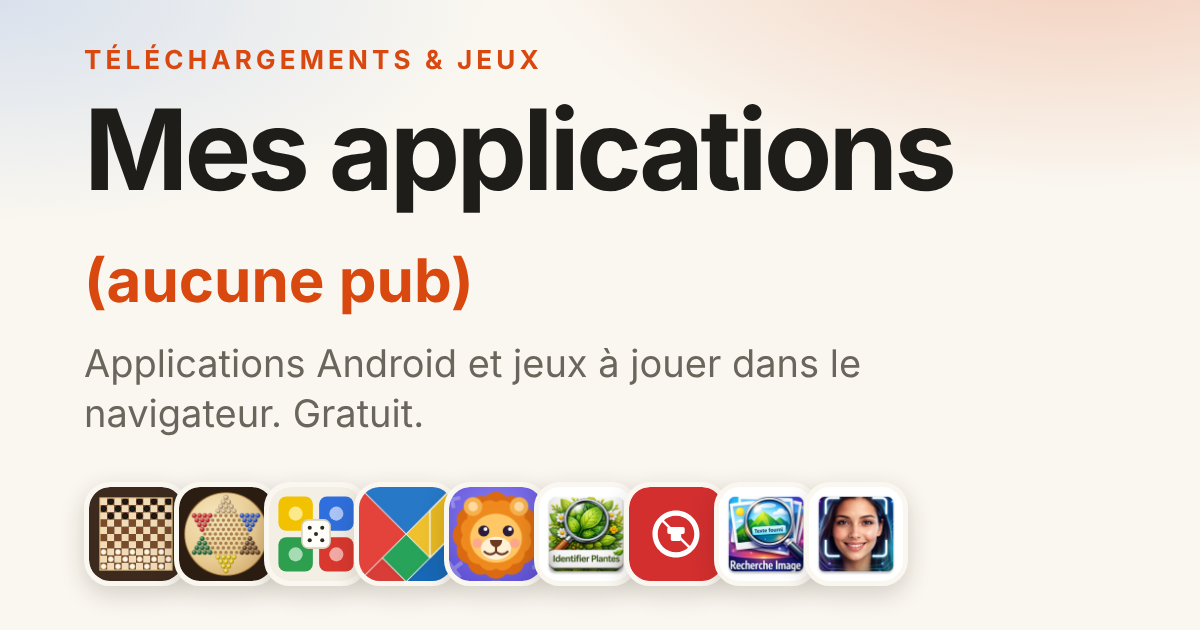
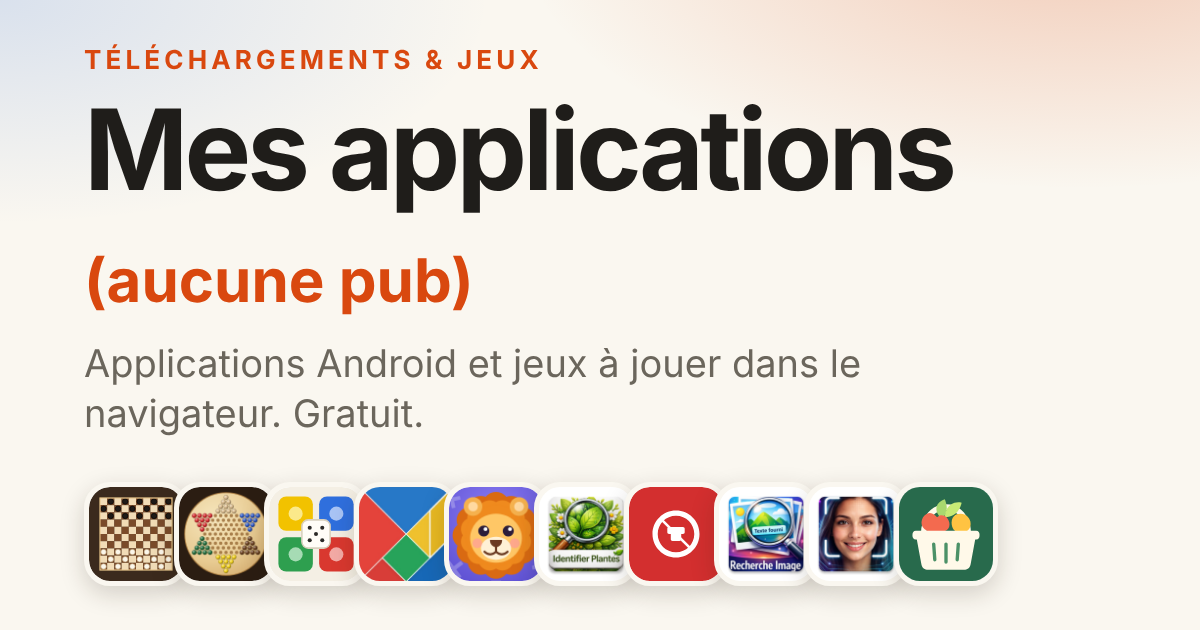
Ajout de ListeCourses Maison (Mes-courses.apk)
Claude-Session: https://claude.ai/code/session_012hP47bfDkwNMDSv529RroJ

Changed region(s): [[0.74, 0.754, 0.8325, 0.9651]]

diff --git a/liste-courses/index.html b/liste-courses/index.html
@@ -1,0 +1,131 @@
+<!DOCTYPE html>
+<html lang="fr">
+<head>
+  <meta charset="UTF-8">
+  <meta name="viewport" content="width=device-width, initial-scale=1, viewport-fit=cover">
+  <meta name="color-scheme" content="light dark">
+  <meta name="theme-color" content="#faf7f0" media="(prefers-color-scheme: light)">
+  <meta name="theme-color" content="#14130f" media="(prefers-color-scheme: dark)">
+  <title>ListeCourses Maison — télécharger l'APK gratuit pour Android</title>
+  <meta name="description" content="La liste de courses de la maison, partagée entre les téléphones. Téléchargez ListeCourses Maison gratuitement pour Android (APK), sans publicité.">
+  <link rel="canonical" href="https://bentarcha.github.io/benappli/liste-courses/">
+  <link rel="icon" href="../assets/icons/parchis.svg" type="image/svg+xml">
+  <meta property="og:type" content="website">
+  <meta property="og:site_name" content="Mes applications (aucune pub)">
+  <meta property="og:locale" content="fr_FR">
+  <meta property="og:title" content="ListeCourses Maison — télécharger l'APK gratuit pour Android">
+  <meta property="og:description" content="La liste de courses de la maison, partagée entre les téléphones. Téléchargez ListeCourses Maison gratuitement pour Android (APK), sans publicité.">
+  <meta property="og:url" content="https://bentarcha.github.io/benappli/liste-courses/">
+  <meta property="og:image" content="https://bentarcha.github.io/benappli/assets/og-image.png">
+  <meta property="og:image:width" content="1200">
+  <meta property="og:image:height" content="630">
+  <meta name="twitter:card" content="summary_large_image">
+  <meta name="twitter:image" content="https://bentarcha.github.io/benappli/assets/og-image.png">
+  <script type="application/ld+json">{"@context":"https://schema.org","@type":"MobileApplication","name":"ListeCourses Maison","description":"La liste de courses de la maison, partagée entre les téléphones. Téléchargez ListeCourses Maison gratuitement pour Android (APK), sans publicité.","url":"https://bentarcha.github.io/benappli/liste-courses/","image":"https://bentarcha.github.io/benappli/assets/icons/liste-courses.svg","inLanguage":"fr","applicationCategory":"UtilitiesApplication","operatingSystem":"Android 7.0+","offers":{"@type":"Offer","price":"0","priceCurrency":"EUR"},"dateModified":"2026-10-24","downloadUrl":"https://github.com/bentarcha/benappli/releases/latest/download/Mes-courses.apk","softwareVersion":"1.0"}</script>
+  <link rel="stylesheet" href="../assets/style.css">
+</head>
+<body>
+  <a class="skip" href="#contenu">Aller au contenu</a>
+
+  <header class="hero compact">
+    <div class="wrap">
+      <p class="eyebrow"><a class="back" href="../">← Toutes les applications</a></p>
+      <h1>ListeCourses Maison</h1>
+      <p class="lead">La liste de courses de la maison, partagée entre les téléphones.</p>
+    </div>
+  </header>
+
+  <main class="wrap page" id="contenu">
+    <div class="app-top">
+      <img src="../assets/icons/liste-courses.svg" alt="Icône de ListeCourses Maison" width="96" height="96">
+      <div class="dlg-actions">
+        <a class="btn primary" href="https://github.com/bentarcha/benappli/releases/latest/download/Mes-courses.apk" data-track="telechargement/liste-courses" data-title="Téléchargement : ListeCourses Maison"><svg viewBox="0 0 24 24" width="18" height="18" aria-hidden="true"><path d="M12 3v12m0 0l-5-5m5 5l5-5M5 20h14" fill="none" stroke="currentColor" stroke-width="2.2" stroke-linecap="round" stroke-linejoin="round"/></svg>Télécharger</a>
+        <a class="btn" href="../#liste-courses">Voir dans la liste</a>
+      </div>
+    </div>
+
+    <section aria-labelledby="presentation">
+      <h2 id="presentation">L'application</h2>
+      <p>ListeCourses Maison est un catalogue de produits courants, rangés par rayon : fruits et légumes, viandes et poissons, produits laitiers, pains et brioches, épicerie, surgelés, boissons, hygiène et entretien. Cochez un produit pour l'ajouter à la liste de courses, décochez-le une fois dans le panier. Vous pouvez aussi ajouter vos propres produits. Si vous le souhaitez, créez une « maison » et partagez son code : la liste est alors synchronisée entre les téléphones de la famille.</p>
+    </section>
+
+    <section aria-labelledby="contenu-app">
+      <h2 id="contenu-app">Ce que vous y trouverez</h2>
+      <ul class="feats">
+        <li>Un catalogue de produits courants classés par rayon</li>
+        <li>Ajout de vos propres produits, avec leur catégorie</li>
+        <li>Liste de courses : cochez pour ajouter, décochez ou videz en un geste</li>
+        <li>Partage de la liste à la famille avec un code de maison, facultatif</li>
+        <li>Fonctionne sans Internet : les changements sont envoyés au retour de la connexion</li>
+        <li>Trois thèmes de couleur au choix</li>
+      </ul>
+    </section>
+
+    <section aria-labelledby="infos">
+      <h2 id="infos">En détail</h2>
+      <dl class="specs">
+        <div><dt>Version</dt><dd>1.0</dd></div>
+        <div><dt>Taille</dt><dd>6,5 Mo</dd></div>
+        <div><dt>Android</dt><dd>à partir de 7.0</dd></div>
+        <div><dt>Mise à jour</dt><dd>24 octobre 2026</dd></div>
+      </dl>
+      <p class="muted">Catégorie : Outils · Gratuit · Sans publicité</p>
+    </section>
+
+    <section aria-labelledby="autorisations">
+      <h2 id="autorisations">Autorisations demandées</h2>
+      <ul class="perms">
+        <li>Voir l'état de la connexion réseau</li>
+        <li>Accéder à Internet</li>
+      </ul>
+    </section>
+
+    <section aria-labelledby="savoir">
+      <h2 id="savoir">Ce qu'il faut savoir</h2>
+      <ul class="plain">
+        <li>La liste est enregistrée sur le téléphone. Tant que vous ne créez pas ou ne rejoignez pas de « maison », rien ne la quitte.</li>
+        <li>Si vous utilisez une maison partagée, vos articles, le nom de la maison et son code sont enregistrés sur les serveurs Firebase de Google, pour être synchronisés entre les téléphones.</li>
+        <li>Le code de la maison permet de rejoindre la liste partagée : ne le donnez qu'à des personnes de confiance.</li>
+        <li>Aucune publicité, et aucun outil de mesure d'audience ni de rapport d'erreurs dans l'application.</li>
+      </ul>
+      <p><a href="../confidentialite.html#liste-courses">Voir la page Confidentialité</a></p>
+    </section>
+
+    <section aria-labelledby="installer">
+      <h2 id="installer">Comment installer ListeCourses Maison sur Android ?</h2>
+      <ol class="plain">
+        <li>Ouvrez cette page depuis votre téléphone et touchez <b>Télécharger</b>.</li>
+        <li>Ouvrez le fichier téléchargé (notification, ou dossier <i>Téléchargements</i>).</li>
+        <li>Si Android le demande, autorisez votre navigateur à <b>installer des applications inconnues</b>, puis touchez <b>Installer</b>.</li>
+      </ol>
+      <p class="muted">Ces applications ne passent pas par le Play Store : Android ou Play Protect peut afficher un avertissement. Si vous avez téléchargé le fichier depuis cette page, vous pouvez poursuivre l'installation.</p>
+    </section>
+
+    <section aria-labelledby="autres">
+      <h2 id="autres">Autres applications</h2>
+      <ul class="others">
+          <li><a href="../dama8/"><img src="../assets/icons/dama8.svg" alt="" width="28" height="28" loading="lazy">Dama</a></li>
+          <li><a href="../dames-chinoises/"><img src="../assets/icons/dames-chinoises.png" alt="" width="28" height="28" loading="lazy">Dames chinoises</a></li>
+          <li><a href="../parchis/"><img src="../assets/icons/parchis.svg" alt="" width="28" height="28" loading="lazy">Parchís</a></li>
+          <li><a href="../tangram/"><img src="../assets/icons/tangram.png" alt="" width="28" height="28" loading="lazy">Tangram</a></li>
+          <li><a href="../mathprim/"><img src="../assets/icons/mathprim.png" alt="" width="28" height="28" loading="lazy">MathPrim</a></li>
+          <li><a href="../plantes/"><img src="../assets/icons/plantes.webp" alt="" width="28" height="28" loading="lazy">Plantes</a></li>
+          <li><a href="../stop-spam/"><img src="../assets/icons/stop-spam.svg" alt="" width="28" height="28" loading="lazy">Stop Spam</a></li>
+          <li><a href="../recherche-image/"><img src="../assets/icons/recherche-image.webp" alt="" width="28" height="28" loading="lazy">Recherche Image</a></li>
+          <li><a href="../visages/"><img src="../assets/icons/visages.webp" alt="" width="28" height="28" loading="lazy">Visages</a></li>
+      </ul>
+    </section>
+  </main>
+
+  <footer class="foot">
+    <div class="wrap">
+      <p id="foot-contact"></p>
+      <p class="foot-links"><a href="../">Accueil</a> · <a href="../confidentialite.html">Confidentialité</a> · Applications proposées telles quelles, sans publicité.</p>
+    </div>
+  </footer>
+
+  <script src="../data/apps.js"></script>
+  <script src="../assets/common.js"></script>
+  <script src="../assets/page.js" data-app="liste-courses" data-name="ListeCourses Maison"></script>
+</body>
+</html>

diff --git a/data/apps.js b/data/apps.js
@@ -347,5 +347,46 @@ window.APPS = [
       "android.permission.READ_MEDIA_IMAGES"
     ],
     "updated": "2026-10-20"
+  },
+  {
+    "id": "liste-courses",
+    "name": "ListeCourses Maison",
+    "category": "outils",
+    "type": "android",
+    "tagline": "La liste de courses de la maison, partagée entre les téléphones.",
+    "description": "ListeCourses Maison est un catalogue de produits courants, rangés par rayon : fruits et légumes, viandes et poissons, produits laitiers, pains et brioches, épicerie, surgelés, boissons, hygiène et entretien. Cochez un produit pour l'ajouter à la liste de courses, décochez-le une fois dans le panier. Vous pouvez aussi ajouter vos propres produits. Si vous le souhaitez, créez une « maison » et partagez son code : la liste est alors synchronisée entre les téléphones de la famille.",
+    "features": [
+      "Un catalogue de produits courants classés par rayon",
+      "Ajout de vos propres produits, avec leur catégorie",
+      "Liste de courses : cochez pour ajouter, décochez ou videz en un geste",
+      "Partage de la liste à la famille avec un code de maison, facultatif",
+      "Fonctionne sans Internet : les changements sont envoyés au retour de la connexion",
+      "Trois thèmes de couleur au choix"
+    ],
+    "privacy": [
+      "La liste est enregistrée sur le téléphone. Tant que vous ne créez pas ou ne rejoignez pas de « maison », rien ne la quitte.",
+      "Si vous utilisez une maison partagée, vos articles, le nom de la maison et son code sont enregistrés sur les serveurs Firebase de Google, pour être synchronisés entre les téléphones.",
+      "Le code de la maison permet de rejoindre la liste partagée : ne le donnez qu'à des personnes de confiance.",
+      "Aucune publicité, et aucun outil de mesure d'audience ni de rapport d'erreurs dans l'application."
+    ],
+    "tags": [
+      "courses",
+      "liste",
+      "famille",
+      "supermarché",
+      "partage"
+    ],
+    "file": "Mes-courses.apk",
+    "icon": "assets/icons/liste-courses.svg",
+    "version": "1.0",
+    "versionCode": "1",
+    "package": "fr.maison.listecourses",
+    "size": 6806976,
+    "minSdk": 24,
+    "permissions": [
+      "android.permission.ACCESS_NETWORK_STATE",
+      "android.permission.INTERNET"
+    ],
+    "updated": "2026-10-24"
   }
 ];

diff --git a/index.html b/index.html
@@ -95,7 +95,7 @@
     <div class="wrap">
       <p id="foot-contact"></p>
       <!-- fiches:debut -->
-      <nav class="foot-fiches" aria-label="Toutes les applications">Applications : <a href="dama8/">Dama</a> · <a href="dames-chinoises/">Dames chinoises</a> · <a href="parchis/">Parchís</a> · <a href="tangram/">Tangram</a> · <a href="mathprim/">MathPrim</a> · <a href="plantes/">Plantes</a> · <a href="stop-spam/">Stop Spam</a> · <a href="recherche-image/">Recherche Image</a> · <a href="visages/">Visages</a></nav>
+      <nav class="foot-fiches" aria-label="Toutes les applications">Applications : <a href="dama8/">Dama</a> · <a href="dames-chinoises/">Dames chinoises</a> · <a href="parchis/">Parchís</a> · <a href="tangram/">Tangram</a> · <a href="mathprim/">MathPrim</a> · <a href="plantes/">Plantes</a> · <a href="stop-spam/">Stop Spam</a> · <a href="recherche-image/">Recherche Image</a> · <a href="visages/">Visages</a> · <a href="liste-courses/">ListeCourses Maison</a></nav>
       <!-- fiches:fin -->
       <p class="foot-links"><a href="confidentialite.html">Confidentialité</a> · Applications proposées telles quelles, sans publicité.</p>
     </div>

diff --git a/dama8/index.html b/dama8/index.html
@@ -109,6 +109,7 @@
           <li><a href="../stop-spam/"><img src="../assets/icons/stop-spam.svg" alt="" width="28" height="28" loading="lazy">Stop Spam</a></li>
           <li><a href="../recherche-image/"><img src="../assets/icons/recherche-image.webp" alt="" width="28" height="28" loading="lazy">Recherche Image</a></li>
           <li><a href="../visages/"><img src="../assets/icons/visages.webp" alt="" width="28" height="28" loading="lazy">Visages</a></li>
+          <li><a href="../liste-courses/"><img src="../assets/icons/liste-courses.svg" alt="" width="28" height="28" loading="lazy">ListeCourses Maison</a></li>
       </ul>
     </section>
   </main>

diff --git a/dames-chinoises/index.html b/dames-chinoises/index.html
@@ -107,6 +107,7 @@
           <li><a href="../stop-spam/"><img src="../assets/icons/stop-spam.svg" alt="" width="28" height="28" loading="lazy">Stop Spam</a></li>
           <li><a href="../recherche-image/"><img src="../assets/icons/recherche-image.webp" alt="" width="28" height="28" loading="lazy">Recherche Image</a></li>
           <li><a href="../visages/"><img src="../assets/icons/visages.webp" alt="" width="28" height="28" loading="lazy">Visages</a></li>
+          <li><a href="../liste-courses/"><img src="../assets/icons/liste-courses.svg" alt="" width="28" height="28" loading="lazy">ListeCourses Maison</a></li>
       </ul>
     </section>
   </main>

diff --git a/mathprim/index.html b/mathprim/index.html
@@ -111,6 +111,7 @@
           <li><a href="../stop-spam/"><img src="../assets/icons/stop-spam.svg" alt="" width="28" height="28" loading="lazy">Stop Spam</a></li>
           <li><a href="../recherche-image/"><img src="../assets/icons/recherche-image.webp" alt="" width="28" height="28" loading="lazy">Recherche Image</a></li>
           <li><a href="../visages/"><img src="../assets/icons/visages.webp" alt="" width="28" height="28" loading="lazy">Visages</a></li>
+          <li><a href="../liste-courses/"><img src="../assets/icons/liste-courses.svg" alt="" width="28" height="28" loading="lazy">ListeCourses Maison</a></li>
       </ul>
     </section>
   </main>

diff --git a/plantes/index.html b/plantes/index.html
@@ -111,6 +111,7 @@
           <li><a href="../stop-spam/"><img src="../assets/icons/stop-spam.svg" alt="" width="28" height="28" loading="lazy">Stop Spam</a></li>
           <li><a href="../recherche-image/"><img src="../assets/icons/recherche-image.webp" alt="" width="28" height="28" loading="lazy">Recherche Image</a></li>
           <li><a href="../visages/"><img src="../assets/icons/visages.webp" alt="" width="28" height="28" loading="lazy">Visages</a></li>
+          <li><a href="../liste-courses/"><img src="../assets/icons/liste-courses.svg" alt="" width="28" height="28" loading="lazy">ListeCourses Maison</a></li>
       </ul>
     </section>
   </main>

diff --git a/tangram/index.html b/tangram/index.html
@@ -108,6 +108,7 @@
           <li><a href="../stop-spam/"><img src="../assets/icons/stop-spam.svg" alt="" width="28" height="28" loading="lazy">Stop Spam</a></li>
           <li><a href="../recherche-image/"><img src="../assets/icons/recherche-image.webp" alt="" width="28" height="28" loading="lazy">Recherche Image</a></li>
           <li><a href="../visages/"><img src="../assets/icons/visages.webp" alt="" width="28" height="28" loading="lazy">Visages</a></li>
+          <li><a href="../liste-courses/"><img src="../assets/icons/liste-courses.svg" alt="" width="28" height="28" loading="lazy">ListeCourses Maison</a></li>
       </ul>
     </section>
   </main>

diff --git a/visages/index.html b/visages/index.html
@@ -110,6 +110,7 @@
           <li><a href="../plantes/"><img src="../assets/icons/plantes.webp" alt="" width="28" height="28" loading="lazy">Plantes</a></li>
           <li><a href="../stop-spam/"><img src="../assets/icons/stop-spam.svg" alt="" width="28" height="28" loading="lazy">Stop Spam</a></li>
           <li><a href="../recherche-image/"><img src="../assets/icons/recherche-image.webp" alt="" width="28" height="28" loading="lazy">Recherche Image</a></li>
+          <li><a href="../liste-courses/"><img src="../assets/icons/liste-courses.svg" alt="" width="28" height="28" loading="lazy">ListeCourses Maison</a></li>
       </ul>
     </section>
   </main>

diff --git a/parchis/index.html b/parchis/index.html
@@ -90,6 +90,7 @@
           <li><a href="../stop-spam/"><img src="../assets/icons/stop-spam.svg" alt="" width="28" height="28" loading="lazy">Stop Spam</a></li>
           <li><a href="../recherche-image/"><img src="../assets/icons/recherche-image.webp" alt="" width="28" height="28" loading="lazy">Recherche Image</a></li>
           <li><a href="../visages/"><img src="../assets/icons/visages.webp" alt="" width="28" height="28" loading="lazy">Visages</a></li>
+          <li><a href="../liste-courses/"><img src="../assets/icons/liste-courses.svg" alt="" width="28" height="28" loading="lazy">ListeCourses Maison</a></li>
       </ul>
     </section>
   </main>

diff --git a/stop-spam/index.html b/stop-spam/index.html
@@ -111,6 +111,7 @@
           <li><a href="../plantes/"><img src="../assets/icons/plantes.webp" alt="" width="28" height="28" loading="lazy">Plantes</a></li>
           <li><a href="../recherche-image/"><img src="../assets/icons/recherche-image.webp" alt="" width="28" height="28" loading="lazy">Recherche Image</a></li>
           <li><a href="../visages/"><img src="../assets/icons/visages.webp" alt="" width="28" height="28" loading="lazy">Visages</a></li>
+          <li><a href="../liste-courses/"><img src="../assets/icons/liste-courses.svg" alt="" width="28" height="28" loading="lazy">ListeCourses Maison</a></li>
       </ul>
     </section>
   </main>

diff --git a/recherche-image/index.html b/recherche-image/index.html
@@ -111,6 +111,7 @@
           <li><a href="../plantes/"><img src="../assets/icons/plantes.webp" alt="" width="28" height="28" loading="lazy">Plantes</a></li>
           <li><a href="../stop-spam/"><img src="../assets/icons/stop-spam.svg" alt="" width="28" height="28" loading="lazy">Stop Spam</a></li>
           <li><a href="../visages/"><img src="../assets/icons/visages.webp" alt="" width="28" height="28" loading="lazy">Visages</a></li>
+          <li><a href="../liste-courses/"><img src="../assets/icons/liste-courses.svg" alt="" width="28" height="28" loading="lazy">ListeCourses Maison</a></li>
       </ul>
     </section>
   </main>
